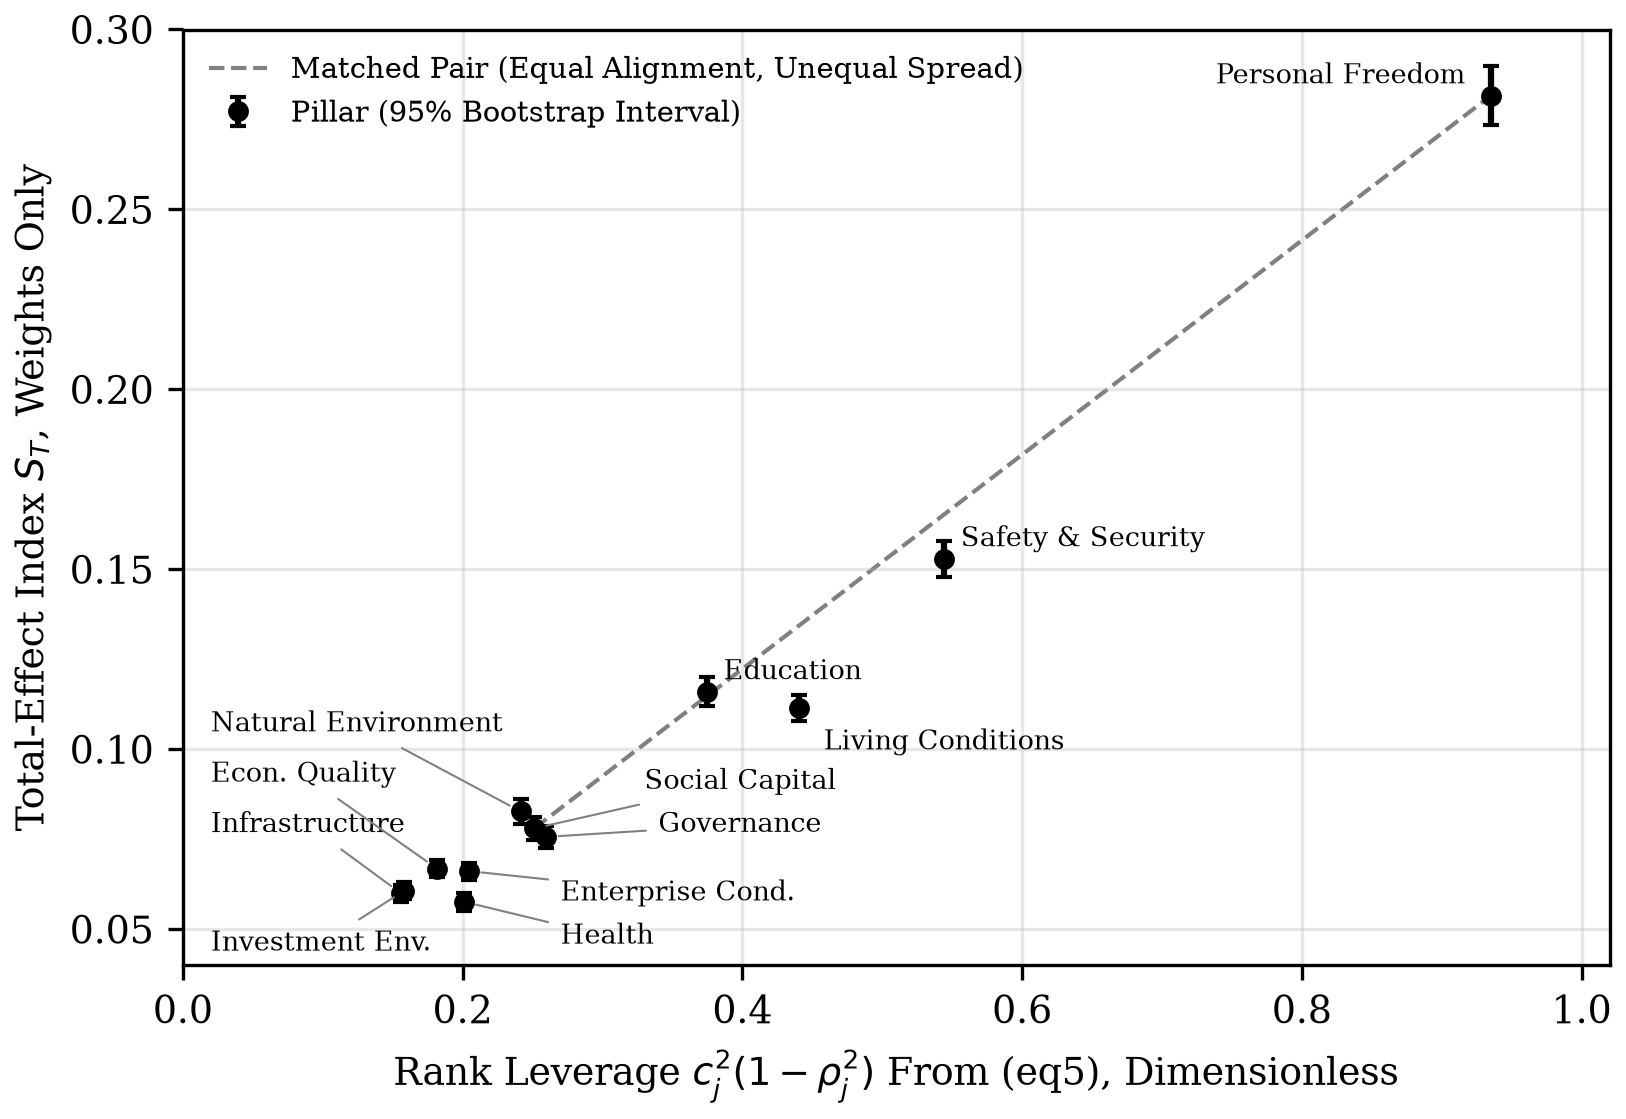
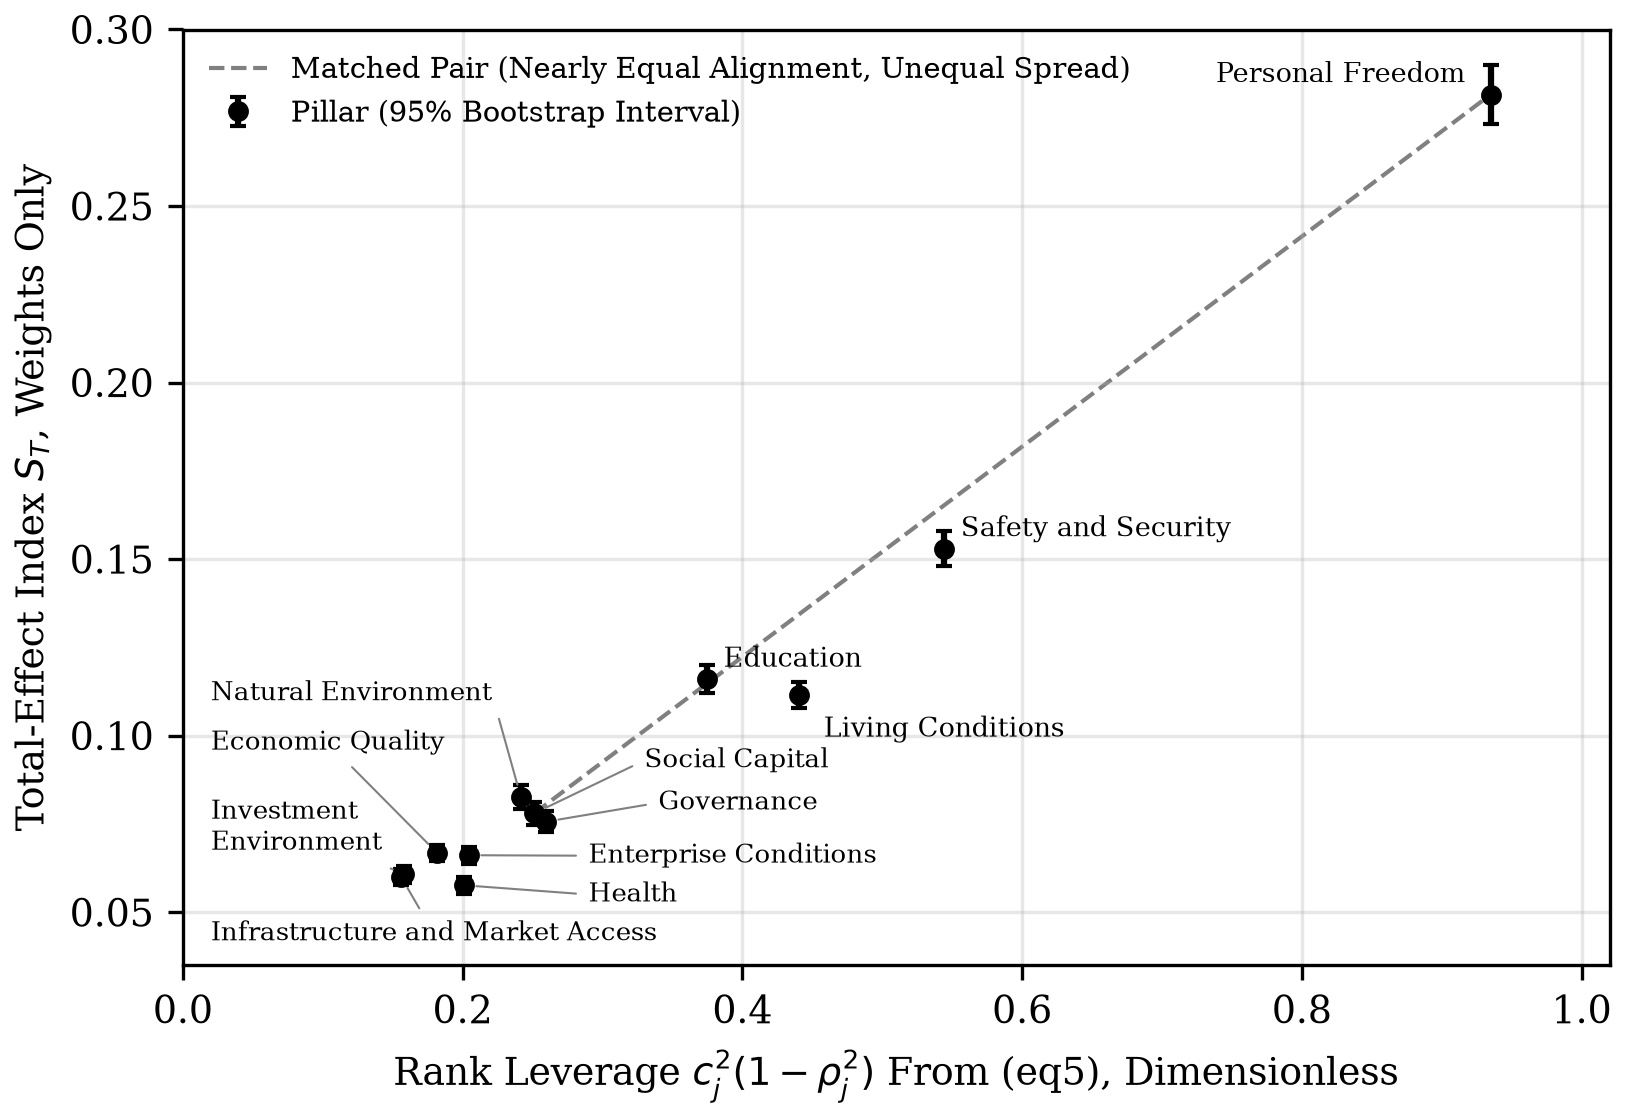
Figure 7: full pillar names with non-overlapping labels

diff --git a/src/figures.py b/src/figures.py
@@ -83,24 +83,26 @@ save(fig, "fig6_importance")
 lev = pd.read_csv(f"{OUT}/rank_leverage.csv").drop(columns=["L"]).rename(columns={"rank_leverage": "L", "ST_native_weights_only": "ST", "ST_native_weights_only_hw": "ST_hw"})
 fig, ax = plt.subplots(figsize=(5.6, 3.9))
 ax.errorbar(lev["L"], lev["ST"], yerr=lev["ST_hw"], fmt="o", color="black", ms=4, capsize=2, label="Pillar (95% Bootstrap Interval)")
-short = {"Infrastructure and Market Access": "Infrastructure", "Investment Environment": "Investment Env.", "Enterprise Conditions": "Enterprise Cond.",
-         "Safety and Security": "Safety & Security", "Economic Quality": "Econ. Quality"}
+short = {}
 offs = {"Living Conditions": (6, -10, "left"), "Personal Freedom": (-6, 3, "right")}
 # crowded lower-left cluster: labels placed in free space with thin leader lines
-placed = {"Natural Environment": (0.02, 0.107),"Social Capital": (0.33, 0.091), "Governance": (0.34, 0.079),
-          "Enterprise Cond.": (0.27, 0.060), "Health": (0.27, 0.048), "Econ. Quality": (0.02, 0.093),
-          "Infrastructure": (0.02, 0.079), "Investment Env.": (0.02, 0.046)}
+placed = {"Natural Environment": (0.02, 0.112, (1, 0.5)), "Economic Quality": (0.02, 0.098, (0.5, 0.5)),
+          "Investment Environment": (0.02, 0.074, (0.5, 0.5)), "Infrastructure and Market Access": (0.02, 0.044, (0.5, 0.5)),
+          "Social Capital": (0.33, 0.093, (0, 0.5)), "Governance": (0.34, 0.081, (0, 0.5)),
+          "Enterprise Conditions": (0.29, 0.066, (0, 0.5)), "Health": (0.29, 0.055, (0, 0.5))}
+wrap = {"Investment Environment": "Investment\nEnvironment"}
 for _, r in lev.iterrows():
     lab_ = short.get(r["pillar"], r["pillar"])
     if lab_ in placed:
-        ax.annotate(lab_, (r["L"], r["ST"]), xytext=placed[lab_], textcoords="data", fontsize=6.5, ha="left", va="center",
-                    arrowprops=dict(arrowstyle="-", color="grey", lw=0.5, shrinkA=1, shrinkB=3))
+        x_, y_, rp_ = placed[lab_]
+        ax.annotate(wrap.get(lab_, lab_), (r["L"], r["ST"]), xytext=(x_, y_), textcoords="data", fontsize=6.2, ha="left", va="center",
+                    arrowprops=dict(arrowstyle="-", color="grey", lw=0.5, shrinkA=1, shrinkB=3, relpos=rp_))
     else:
         dx, dy, ha = offs.get(r["pillar"], (4, 3, "left"))
         ax.annotate(lab_, (r["L"], r["ST"]), fontsize=6.5, xytext=(dx, dy), textcoords="offset points", ha=ha)
-ax.set_xlim(0.0, 1.02); ax.set_ylim(0.04, 0.30)
+ax.set_xlim(0.0, 1.02); ax.set_ylim(0.035, 0.30)
 pair = lev.set_index("pillar").loc[["Social Capital", "Personal Freedom"]]
-ax.plot(pair["L"], pair["ST"], ls="--", color="grey", lw=1, zorder=0, label="Matched Pair (Equal Alignment, Unequal Spread)")
+ax.plot(pair["L"], pair["ST"], ls="--", color="grey", lw=1, zorder=0, label="Matched Pair (Nearly Equal Alignment, Unequal Spread)")
 ax.set_xlabel("Rank Leverage $c_j^2(1-\\rho_j^2)$ From (eq5), Dimensionless"); ax.set_ylabel("Total-Effect Index $S_T$, Weights Only"); ax.legend(frameon=False, loc="upper left", fontsize=7)
 save(fig, "fig7_leverage")
 
